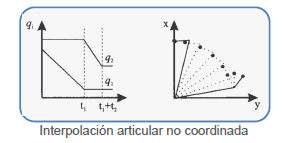
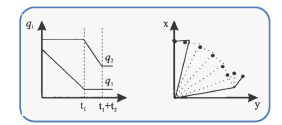
i: listo referecias figuras y algunas ecuacioens elimine () LISTO CAP 4

diff --git a/Main/Chapter4/Chapter4.tex b/Main/Chapter4/Chapter4.tex
@@ -1845,9 +1845,9 @@ En esta sección se da a conocer la definición de espacio de trabajo por alguno
     Las restricciones que se toman en cuenta en este documento para determinar el espacio de trabajo del robot delta son principalmente: 
    
     \begin{itemize}
-    	\item Limites impuesto de los ángulos de los actuadores [  \(  \theta _{1i,min} \)  -   \(  \theta _{1i,max} \)  ] para cada actuador  \( i= \{ 1,2,3 \}  \)  .\par
+    	\item Limites impuesto de los ángulos de los actuadores [  \(  \theta _{1i,min} \)  -   \(  \theta _{1i,max} \)  ] para cada actuador  \( i \in \{ 1,2,3 \}  \)  .\par
     
-    	\item Resolución basada en tamaño del paso de los actuadores, es decir, la discretización del rango impuesto por los límites del punto anterior  \(  \Delta  \theta _{1i} \)  para cada actuador  \( i= \{ 1,2,3 \}  \) .\par
+    	\item Resolución basada en tamaño del paso de los actuadores, es decir, la discretización del rango impuesto por los límites del punto anterior  \(  \Delta  \theta _{1i} \)  para cada actuador  \( i \in \{ 1,2,3 \}  \) .\par
     
     	\item Restricciones de ángulos internos en base a restricción de las juntas o rotulas  \(  \theta _{2i} \)  y  \(  \theta _{3i} \) .\par
     
@@ -1881,7 +1881,7 @@ En esta sección se da a conocer la definición de espacio de trabajo por alguno
     Finalmente, se describe la trayectoria como la combinación de 2 partes: una descripción puramente geométrica de la secuencia de configuraciones logradas por el robot y una escala de tiempo que especifica los tiempos en que se alcanzan esas configuraciones. A partir del punto de vista anterior, se consideran el caso de las trayectorias punto a punto tanto en el espacio de articulaciones como en el espacio de cartesiano.
     
     \subsection{Definición de trayectorias}
-        Un camino geométrico $p$ es un conjunto de puntos en el espacio articular o cartesiano que un manipulador de un robot debe seguir, en otras palabras, es una descripción puramente geométrica. La ecuación (\ref{eq:cap4_tray_1}) representa un camino geométrico en el espacio cartesiano: 
+        Un camino geométrico $p$ es un conjunto de puntos en el espacio articular o cartesiano que un manipulador de un robot debe seguir, en otras palabras, es una descripción puramente geométrica. La ecuación \ref{eq:cap4_tray_1} representa un camino geométrico en el espacio cartesiano: 
 
         \begin{equation}
             p(s) = [x(s), y(s), z(s)]^T
@@ -1899,7 +1899,7 @@ En esta sección se da a conocer la definición de espacio de trabajo por alguno
     \begin{figure}[htb]
         \centering
         \includegraphics[width=0.7\linewidth]{Main/Chapter4/Images4/cap4_tray_1.png}
-        \caption{Fotografía de un paraguas}
+        \caption{Descomposición de trayectoria en camino + ley temporal \cite{tray_utec}}
         \label{f:Cap4_tray_1}
     \end{figure}    
     
@@ -1968,7 +1968,7 @@ En esta sección se da a conocer la definición de espacio de trabajo por alguno
     \begin{figure}[htb]
         \centering
         \includegraphics[width=0.65\linewidth]{Main/Chapter4/Images4/cap4_tray_3.png}
-        \caption{Fotografía de un paraguas}
+        \caption{Procedimiento típico para generar trayectorias \cite{tray_utec}}
         \label{f:Cap4_tray_3}
     \end{figure}  
     
@@ -1985,16 +1985,16 @@ En esta sección se da a conocer la definición de espacio de trabajo por alguno
            \begin{figure}[htb]
              \centering
              \label{f:cap4_tray_4a}
-                \includegraphics[width=0.6\textwidth]{Main/Chapter4/Images4/cap4_tray_4a.png}
-             \caption{Múltiples imágenes A}
+                \includegraphics[width=0.8\textwidth]{Main/Chapter4/Images4/cap4_tray_4a.png}
+             \caption{Interpolación articular no coordinada \cite{tray_utec}}
         \end{figure}            
 
 
            \begin{figure}[htb]
              \centering
              \label{f:cap4_tray_4b}
-                \includegraphics[width=0.6\textwidth]{Main/Chapter4/Images4/cap4_tray_4b.png}
-             \caption{Múltiples imágenes B}
+                \includegraphics[width=0.8\textwidth]{Main/Chapter4/Images4/cap4_tray_4b.png}
+             \caption{Interpolación en el espacio cartesiano \cite{tray_utec}}
         \end{figure}         
             
             
@@ -2012,7 +2012,7 @@ En esta sección se da a conocer la definición de espacio de trabajo por alguno
         \begin{figure}[htb]
             \centering
             \includegraphics[width=1\linewidth]{Main/Chapter4/Images4/cap4_tray_5.png}
-            \caption{Fotografía de un paraguas}
+            \caption{Polinomios \cite{tray_utec}}
             \label{f:Cap4_tray_5}
         \end{figure}              
             
@@ -2029,13 +2029,14 @@ En esta sección se da a conocer la definición de espacio de trabajo por alguno
             
            \begin{figure}[htb]
              \centering
-              \subfloat[Gatito]{
+              \subfloat[Posición]{
              \label{f:cap4_tray_6a}
                 \includegraphics[width=0.5\textwidth]{Main/Chapter4/Images4/cap4_tray_6a.png}}
-              \subfloat[Tigre]{
+              \subfloat[Velocidad]{
              \label{f:cap4_tray_6b}
                 \includegraphics[width=0.5\textwidth]{Main/Chapter4/Images4/cap4_tray_6b.png}}
-             \caption{Múltiples imágenes}
+             \caption{Trayectorias Punto a Punto
+: Interpolador de Velocidad Trapezoidal \cite{tray_utec}}
              \label{f:cap4_tray_6}
         \end{figure}            
             
@@ -2090,7 +2091,8 @@ En esta sección se da a conocer la definición de espacio de trabajo por alguno
             \begin{figure}[htb]
                 \centering
                 \includegraphics[width=1\linewidth]{Main/Chapter4/Images4/cap4_tray_7.png}
-                \caption{Fotografía de un paraguas}
+                \caption{(Izquierda) Un robot 2R con límites de articulación $0^{\circ} \leq \theta_1 \leq 180^{\circ}$
+, $0^{\circ} \leq \theta_2 \leq 150^{\circ}$. (Centro superior) Una trayectoria en línea recta en el espacio articular y (arriba a la derecha) el movimiento correspondiente del efector final en el espacio de la tarea (línea discontinua). Las configuraciones de punto final alcanzables, sujetas a límites de articulación, se indican en gris. (Centro inferior) Esta línea curva en el espacio de la articulación y (parte inferior derecha) la trayectoria de la línea recta correspondiente en la línea discontinua del espacio de la tarea) violaría los límites de la articulación. \cite{moder_robot}}
                 \label{f:Cap4_tray_7}
             \end{figure}  
             
@@ -2106,7 +2108,7 @@ En esta sección se da a conocer la definición de espacio de trabajo por alguno
             
             
         \subsubsection{Escala temporal de un camino en línea recta}
-            Una escala de tiempo $s(t)$ de una trayectoria debe garantizar que el movimiento sea lo suficientemente suave y que se satisfaga cualquier restricción sobre la velocidad y aceleración del robot. Para una trayectoria en línea recta en el espacio articular de la forma de la ecuacion (\ref{eq:cap4_tray_9}), las velocidades y aceleraciones articulares escaladas en el tiempo son respectivamente:
+            Una escala de tiempo $s(t)$ de una trayectoria debe garantizar que el movimiento sea lo suficientemente suave y que se satisfaga cualquier restricción sobre la velocidad y aceleración del robot. Para una trayectoria en línea recta en el espacio articular de la forma de la ecuacion \ref{eq:cap4_tray_9}, las velocidades y aceleraciones articulares escaladas en el tiempo son respectivamente:
         
         
             \begin{equation}
@@ -2148,20 +2150,20 @@ En esta sección se da a conocer la definición de espacio de trabajo por alguno
                 \label{eq:cap4_tray_18}
              \end{equation}         
              
-            Derivando la ecuación (\ref{eq:cap4_tray_15}):
+            Derivando la ecuación \ref{eq:cap4_tray_15}:
             \begin{equation}
                 \dot{s}(t)= a_{1}+2a_{2}t+3a_{3}t^{2}
                 \label{eq:cap4_tray_19}
              \end{equation}     
             
-        Evaluando la ecuación (\ref{eq:cap4_tray_19}) en  $t = 0$ , $t = T$ y resolviendo las cuatro restricciones (\ref{eq:cap4_tray_16}),(\ref{eq:cap4_tray_17}),(\ref{eq:cap4_tray_18}) :
+        Evaluando la ecuación \ref{eq:cap4_tray_19} en  $t = 0$ , $t = T$ y resolviendo las cuatro restricciones representadas por las ecuaciones  \ref{eq:cap4_tray_16},\ref{eq:cap4_tray_17} y \ref{eq:cap4_tray_18} :
         
             \begin{equation}
                  a_{0}=0;a_{1}=0;a_{2}=\frac{3}{T^2};a_{3}=-\frac{2}{T^3}
                 \label{eq:cap4_tray_20}
              \end{equation}     
         
-        Reemplazando los coeficientes $a_i$ en la ecuación (\ref{eq:cap4_tray_15}): 
+        Reemplazando los coeficientes $a_i$ en la ecuación \ref{eq:cap4_tray_15}: 
         
             \begin{equation}
                 s(t)=a_{2}t^{2}+a_{3}t^{3} = (\frac{3}{T^2})t^{2}+(-\frac{2}{T^3})t^{3}
@@ -2169,7 +2171,7 @@ En esta sección se da a conocer la definición de espacio de trabajo por alguno
              \end{equation}  
              
 
-            Sustituyendo la ecuación (\ref{eq:cap4_tray_21}) y sus derivadas en las ecuaciones (\ref{eq:cap4_tray_9}),(\ref{eq:cap4_tray_13}) y  (\ref{eq:cap4_tray_14}) :
+            Sustituyendo la ecuación \ref{eq:cap4_tray_21} y sus derivadas en las ecuaciones \ref{eq:cap4_tray_9},\ref{eq:cap4_tray_13} y  \ref{eq:cap4_tray_14} :
             
             \begin{equation}
                 \theta(t)= \theta_{inicio} + \left(  \frac{3t^{2}}{T^2}-\frac{2t^{3}}{T^3} \right) (\theta_{fin}-\theta_{inicio})            
@@ -2189,7 +2191,7 @@ En esta sección se da a conocer la definición de espacio de trabajo por alguno
              \begin{figure}[htb]
                 \centering
                 \includegraphics[width=0.8\linewidth]{Main/Chapter4/Images4/cap4_tray_8.png}
-                \caption{Fotografía de un paraguas}
+                \caption{Gráficas de $s(t)$, $\dot{s}(t)$ y $\ddot{s}(t)$ para una escala de tiempo polinomial de tercer orden \cite{moder_robot} }
                 \label{f:Cap4_tray_8}
             \end{figure}  
              
@@ -2213,7 +2215,7 @@ En esta sección se da a conocer la definición de espacio de trabajo por alguno
                 \label{eq:cap4_tray_27}
              \end{equation} 
              
-        Si existen límites conocidos en las velocidades máximas de la articulación $\left|\dot{\theta} \right|  \leq  {\dot{\theta}}_{limite} $  y las aceleraciones máximas de la articulación  $\left|\ddot{\theta} \right|  \leq  {\ddot{\theta}}_{limite} $ , estos límites se pueden verificar para ver si el tiempo de movimiento solicitado $T$ es factible. Alternativamente, se podría resolver $T$ para encontrar el tiempo de movimiento mínimo posible que satisfaga la restricción de velocidad o aceleración más restrictiva
+        Si existen límites conocidos en las velocidades máximas de la articulación $\left|\dot{\theta} \right|  \leq  {\dot{\theta}}_{limite} $  y las aceleraciones máximas de la articulación  $\left|\ddot{\theta} \right|  \leq  {\ddot{\theta}}_{limite} $ , estos límites se pueden verificar para ver si el tiempo de movimiento solicitado $T$ es factible. Alternativamente, se podría resolver $T$ para encontrar el tiempo de movimiento mínimo posible que satisfaga la restricción de velocidad o aceleración más restrictiva.
         
         \newpage
 
@@ -2225,7 +2227,7 @@ En esta sección se da a conocer la definición de espacio de trabajo por alguno
             \begin{figure}[htb]
                 \centering
                 \includegraphics[width=0.7\linewidth]{Main/Chapter4/Images4/cap4_tray_9.png}
-                \caption{Fotografía de un paraguas}
+                \caption{Gráficas de $s(t)$ y $\dot{s}(t)$ para un perfil de movimiento trapezoidal \cite{moder_robot}}
                 \label{f:Cap4_tray_9}
             \end{figure}  
     
@@ -2245,8 +2247,8 @@ En esta sección se da a conocer la definición de espacio de trabajo por alguno
         
         \begin{figure}[htb]
                 \centering
-                \includegraphics[width=0.27\linewidth]{Main/Chapter4/Images4/cap4_tray_10.png}
-                \caption{Fotografía de un paraguas}
+                \includegraphics[width=0.3\linewidth]{Main/Chapter4/Images4/cap4_tray_10.png}
+                \caption{Bang - bang \cite{moder_robot}}
                 \label{f:Cap4_tray_10}
             \end{figure} 
     

diff --git a/Thesis.tex b/Thesis.tex
@@ -225,10 +225,10 @@ escapechar=* % <=  to escape to LaTeX
 \onehalfspacing
 \mainmatter 
 
-% \include{Main/Chapter1/Chapter1}    % iontroduccion hipotesis objetivos
-% \include{Main/Chapter2/Chapter2}    %  arte
-\include{Main/Chapter3/Chapter3}      % Teoria herramientas
-% \include{Main/Chapter4/Chapter4}      % Teoria modelacion
+ %\include{Main/Chapter1/Chapter1}    % iontroduccion hipotesis objetivos
+ %\include{Main/Chapter2/Chapter2}    %  arte
+%\include{Main/Chapter3/Chapter3}      % Teoria herramientas
+ \include{Main/Chapter4/Chapter4}      % Teoria modelacion
 % \include{Main/Chapter5/Chapter5}    % Parametros robot delta tesis nuestra 
 %\include{Main/Chapter6/Chapter6}      % Desarrollo 
 % \include{Main/Chapter7/Chapter7}    % Resultados
